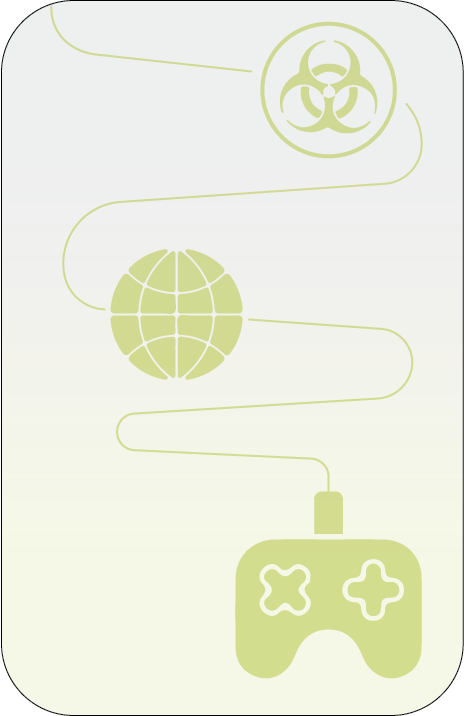
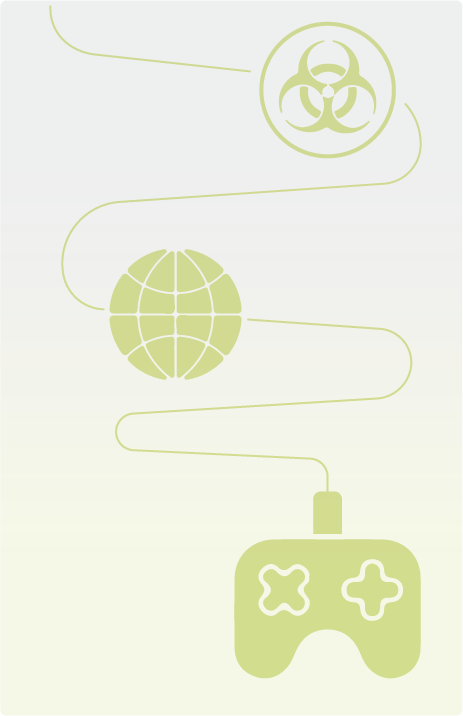
Update pics v2

diff --git a/_research_directions/temporal-graph-learning/tga.md b/_research_directions/temporal-graph-learning/tga.md
@@ -4,8 +4,7 @@ layout: splash
 category: temporal-graph-learning
 order: 2
 header:
-    overlay_filter: linear-gradient(rgba(255, 255, 255, 0.1), rgba(0, 0, 0, 1))
-    overlay_image: /assets/images/research_directions/temporal-graph-learning/TGA.jpg
+    overlay_image: /assets/images/research_directions/temporal-graph-learning/TGA.png
 one-liner: How to deploy TGL methods for applications such as disease modeling, anomaly detection and forecasting?
 excerpt: Explore the cutting-edge applications of temporal graph learning, from real-time fraud detection to advanced disease modeling. Discover how dynamic network analysis enhances accuracy and efficiency in various domains.
 

diff --git a/_research_directions/temporal-graph-learning/tgb.md b/_research_directions/temporal-graph-learning/tgb.md
@@ -4,8 +4,7 @@ layout: splash
 category: temporal-graph-learning
 order: 1
 header:
-    overlay_filter: linear-gradient(rgba(0, 0, 0, 0.3), rgba(0, 0, 0, 0.5))
-    overlay_image: /assets/images/research_directions/temporal-graph-learning/TGB.jpg
+    overlay_image: /assets/images/research_directions/temporal-graph-learning/TGB.png
     overlay_size: contain
 one-liner: How to realistically, reproducibly, and robustly evaluate machine learning models on temporal graphs?
 excerpt: ""
